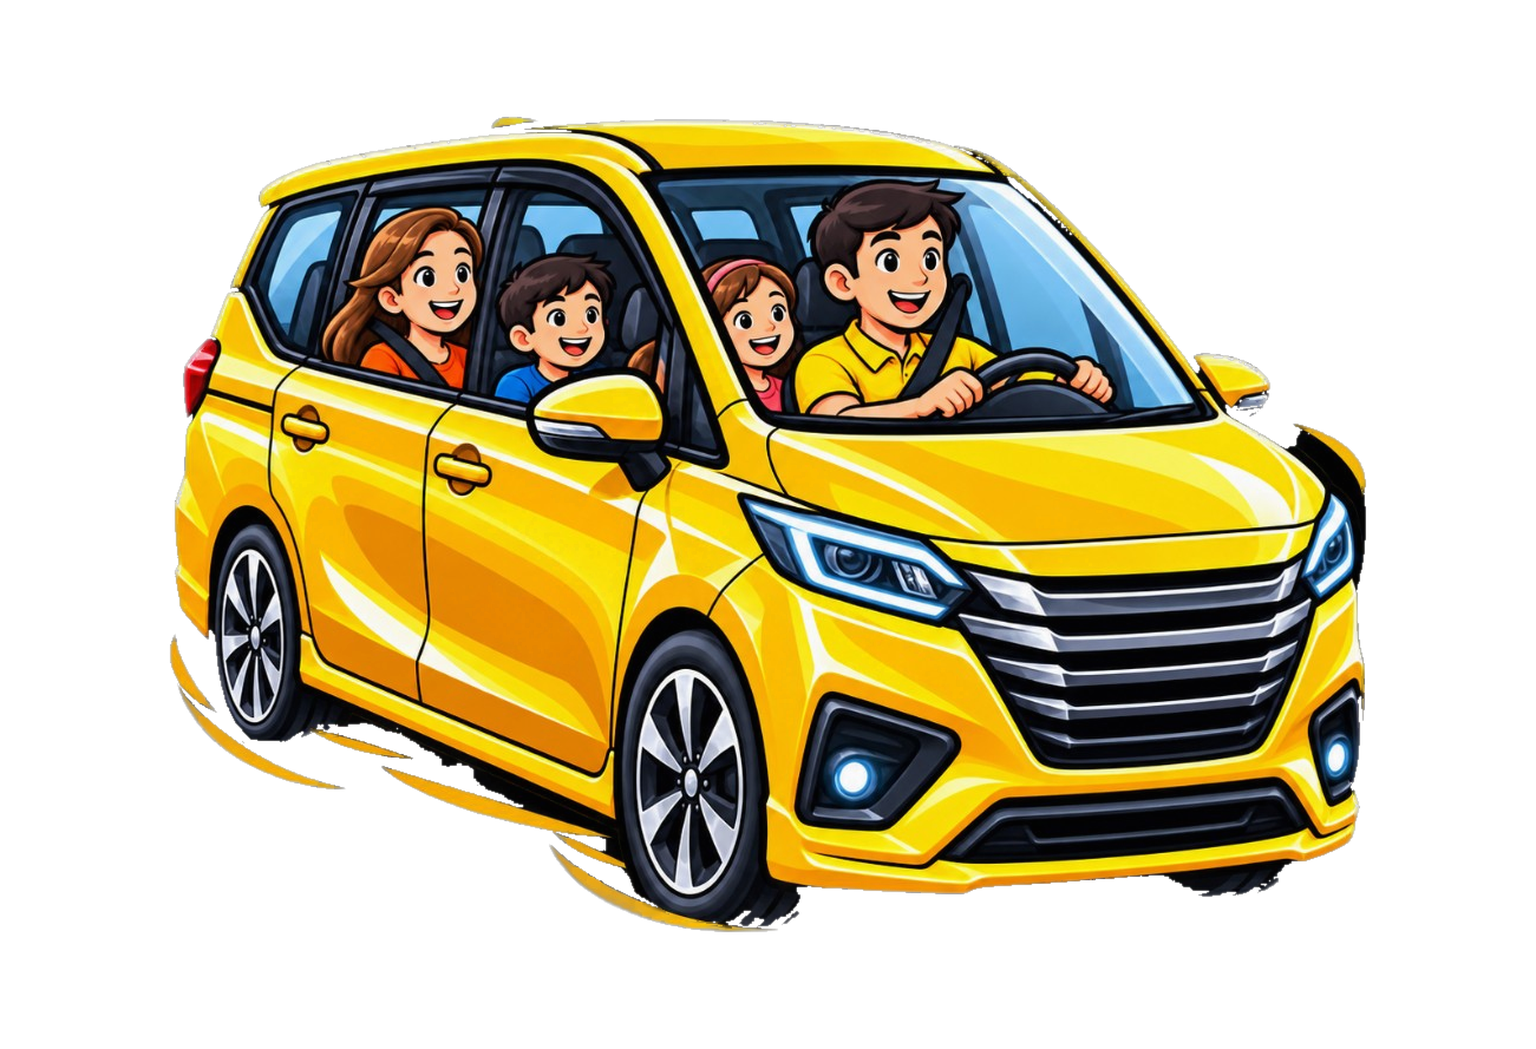
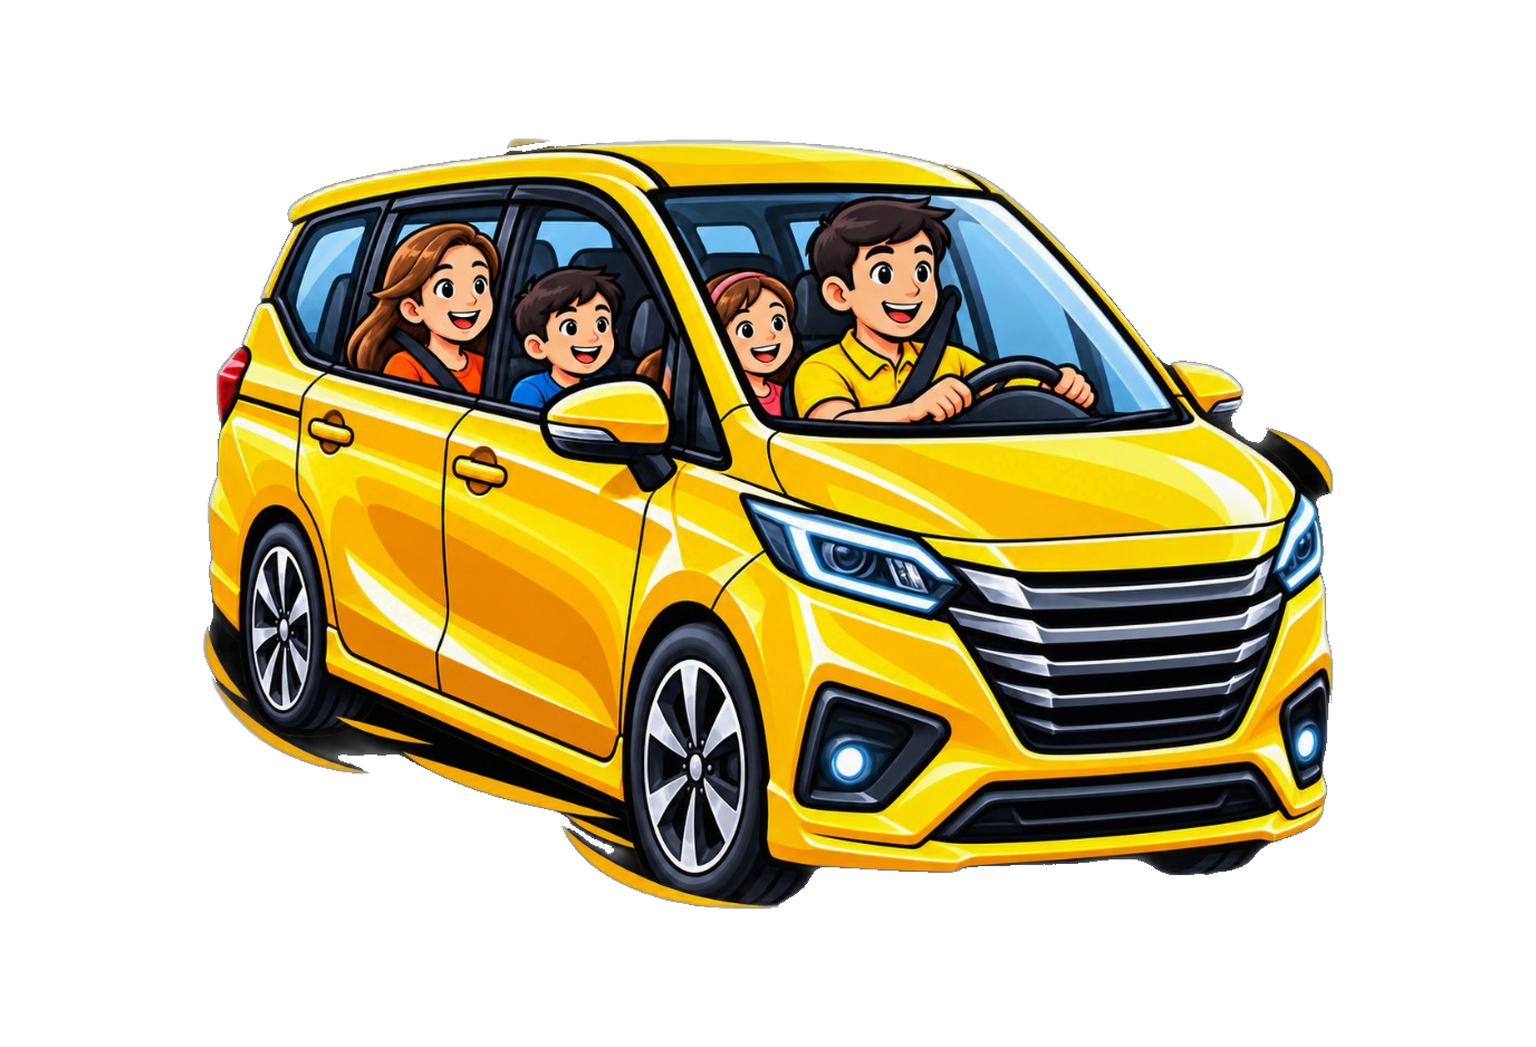
199

diff --git a/mobile_passenger_yapasakay/tools/rembg_vehicles.py b/mobile_passenger_yapasakay/tools/rembg_vehicles.py
@@ -1,7 +1,7 @@
-"""Cut vehicle JPGs to clean transparent PNGs with rembg + fringe cleanup + padding."""
+"""Cut vehicle JPGs to transparent PNGs with padding so UI never clips the art."""
 from pathlib import Path
 
-from PIL import Image, ImageFilter
+from PIL import Image
 from rembg import remove
 
 src_dir = Path(__file__).resolve().parents[1] / "assets" / "vehicles"
@@ -19,93 +19,68 @@ names = [
 ]
 
 
-def clean_fringe(im: Image.Image) -> Image.Image:
-    im = im.convert("RGBA")
-    px = im.load()
-    w, h = im.size
+def cutout(src: Image.Image) -> Image.Image:
+    # Extra black border so rembg does not chew helmets / tires at the frame edge.
+    border = 96
+    canvas = Image.new("RGBA", (src.width + border * 2, src.height + border * 2), (0, 0, 0, 255))
+    canvas.paste(src.convert("RGBA"), (border, border))
+    cut = remove(canvas).convert("RGBA")
+    px = cut.load()
+    w, h = cut.size
     for y in range(h):
         for x in range(w):
             r, g, b, a = px[x, y]
-            if a == 0:
-                continue
-            if a < 40:
+            if a < 16:
                 px[x, y] = (0, 0, 0, 0)
-                continue
-            if a < 250 and r >= 220 and g >= 220 and b >= 220:
+            elif a < 200 and r <= 35 and g <= 35 and b <= 35:
                 px[x, y] = (0, 0, 0, 0)
-                continue
-            if a < 250 and r <= 28 and g <= 28 and b <= 28:
-                px[x, y] = (0, 0, 0, 0)
-                continue
 
-    src = im.copy()
-    spx = src.load()
-    for y in range(h):
-        for x in range(w):
-            r, g, b, a = spx[x, y]
-            if a == 0 or a >= 250:
-                continue
-            rs = gs = bs = n = 0
-            for dy in (-2, -1, 0, 1, 2):
-                for dx in (-2, -1, 0, 1, 2):
-                    nx, ny = x + dx, y + dy
-                    if 0 <= nx < w and 0 <= ny < h:
-                        rr, gg, bb, aa = spx[nx, ny]
-                        if aa >= 245 and not (rr >= 220 and gg >= 220 and bb >= 220):
-                            rs += rr
-                            gs += gg
-                            bs += bb
-                            n += 1
-            if n > 0:
-                px[x, y] = (rs // n, gs // n, bs // n, a)
-
-    a = im.split()[3].filter(ImageFilter.GaussianBlur(radius=0.6))
-    im.putalpha(a)
-    return im
-
-
-def pad_subject(im: Image.Image, pad_frac: float = 0.12) -> Image.Image:
-    """Keep full subject with transparent margin so UI boxes never clip wheels/helmets."""
-    bbox = im.split()[3].getbbox()
+    solid = cut.split()[3].point(lambda v: 255 if v >= 128 else 0)
+    bbox = solid.getbbox()
     if not bbox:
-        return im
-    cropped = im.crop(bbox)
-    w, h = cropped.size
-    pad_x = max(24, int(w * pad_frac))
-    pad_y = max(24, int(h * pad_frac))
-    canvas = Image.new("RGBA", (w + pad_x * 2, h + pad_y * 2), (0, 0, 0, 0))
-    canvas.paste(cropped, (pad_x, pad_y), cropped)
-    return canvas
+        return cut
+    cropped = cut.crop(bbox)
+    cw, ch = cropped.size
+    mx, my = max(32, int(cw * 0.18)), max(32, int(ch * 0.18))
+    final = Image.new("RGBA", (cw + mx * 2, ch + my * 2), (0, 0, 0, 0))
+    final.paste(cropped, (mx, my), cropped)
+    return final
 
 
 def main() -> None:
     web_dir.mkdir(parents=True, exist_ok=True)
     for name in names:
         jpg = src_dir / f"{name}.jpg"
-        png_src = src_dir / f"{name}.png"
-        # Prefer jpg for cutout; sedan/suv may only have clean png already.
+        png = src_dir / f"{name}.png"
         if jpg.exists():
             print(f"rembg {name}...")
-            src = Image.open(jpg).convert("RGBA")
-            cut = remove(src)
-            cut = clean_fringe(cut)
-            cut = pad_subject(cut, 0.14)
-        elif png_src.exists():
+            out = cutout(Image.open(jpg))
+        elif png.exists():
             print(f"repad {name}...")
-            cut = pad_subject(Image.open(png_src).convert("RGBA"), 0.14)
+            # Already transparent — just ensure solid margins.
+            im = Image.open(png).convert("RGBA")
+            solid = im.split()[3].point(lambda v: 255 if v >= 128 else 0)
+            bbox = solid.getbbox()
+            if not bbox:
+                continue
+            cropped = im.crop(bbox)
+            cw, ch = cropped.size
+            mx, my = max(32, int(cw * 0.18)), max(32, int(ch * 0.18))
+            out = Image.new("RGBA", (cw + mx * 2, ch + my * 2), (0, 0, 0, 0))
+            out.paste(cropped, (mx, my), cropped)
         else:
-            print(f"skip {name}: no source")
+            print(f"skip {name}")
             continue
 
         target_w = 1536
-        if cut.width != target_w:
-            ratio = target_w / cut.width
-            cut = cut.resize((target_w, max(1, int(cut.height * ratio))), Image.Resampling.LANCZOS)
-
-        out = src_dir / f"{name}.png"
-        cut.save(out, "PNG", optimize=True)
-        cut.save(web_dir / f"{name}.png", "PNG", optimize=True)
-        print(f"  -> {out.name} {cut.size}")
+        if out.width != target_w:
+            out = out.resize(
+                (target_w, max(1, int(out.height * target_w / out.width))),
+                Image.Resampling.LANCZOS,
+            )
+        out.save(src_dir / f"{name}.png", "PNG", optimize=True)
+        out.save(web_dir / f"{name}.png", "PNG", optimize=True)
+        print(f"  -> {name}.png {out.size}")
     print("done")
 
 
